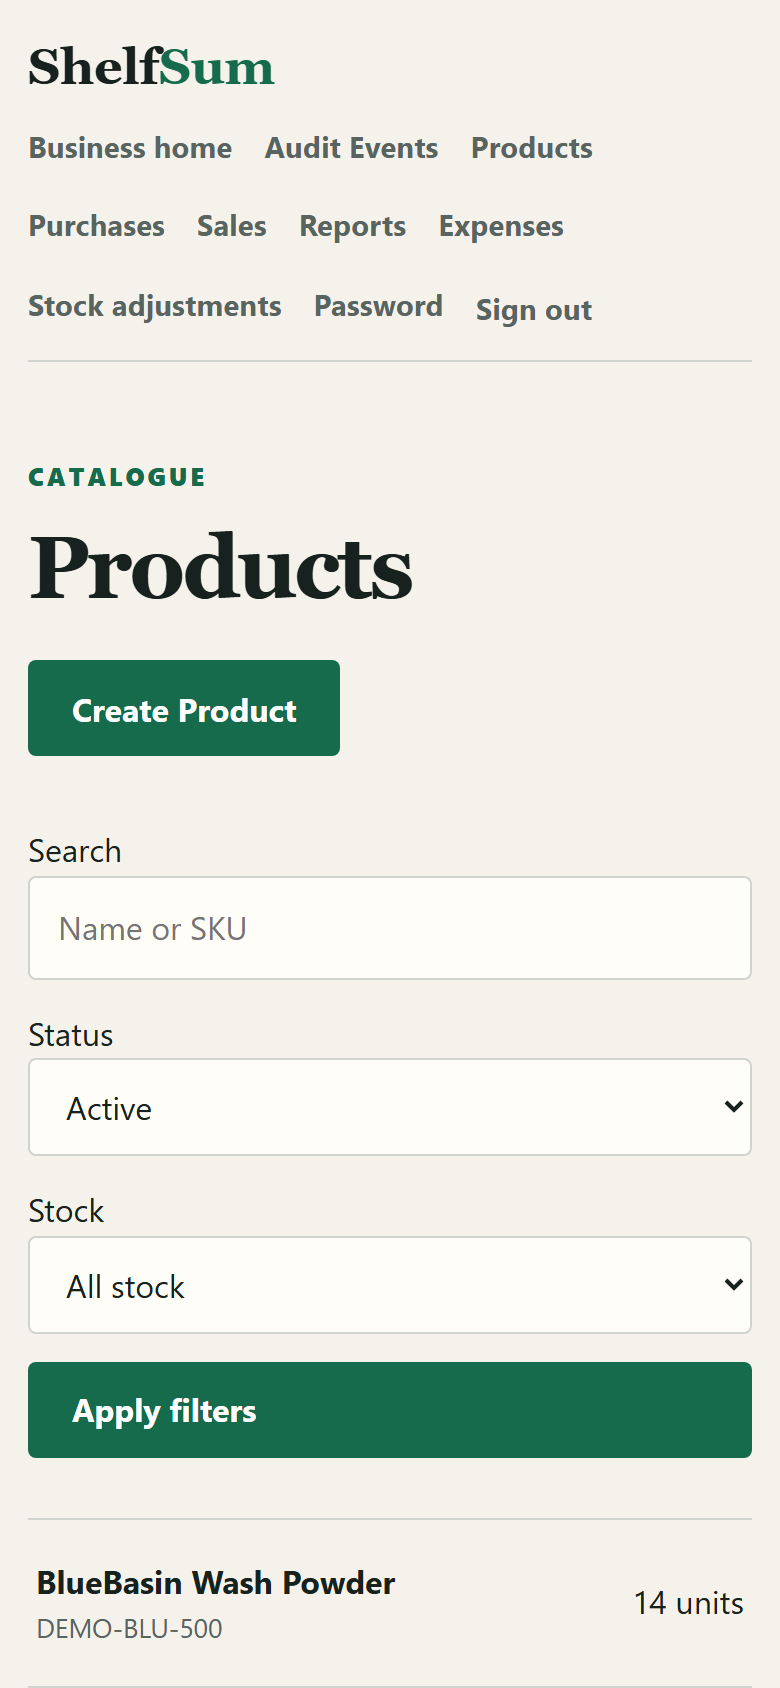
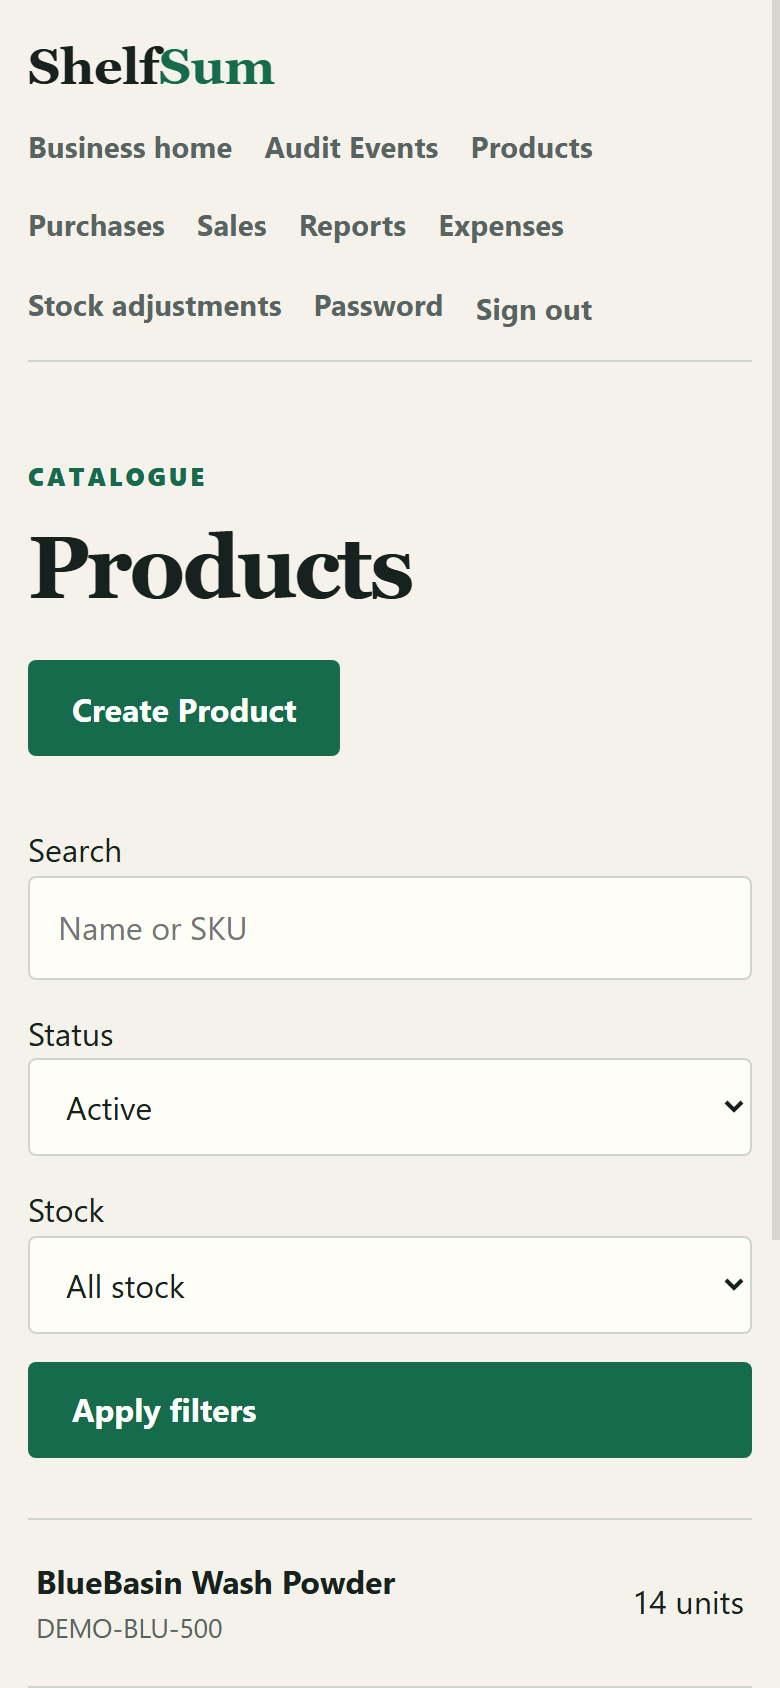
docs: complete Ticket 13 closure with live 768px responsive verification

Changed region(s): [[0.9846, 0.0, 1.0, 0.7393]]

diff --git a/.scratch/finance-inventory/issues/13-ship-the-public-evidence.md b/.scratch/finance-inventory/issues/13-ship-the-public-evidence.md
@@ -4,7 +4,7 @@
 
 **Blocked by:** 12: Deliver a stable demo and Audit Event browser.
 
-**Status:** in-progress
+**Status:** complete
 
 - [x] The phase begins by reviewing and updating `AGENTS.md` for final build, security, deployment, documentation, and explanation requirements.
 - [x] The complete release suite passes against PostgreSQL and the fast local suite remains documented separately.
@@ -13,7 +13,7 @@
 - [x] The application is deployed to a free Render web service connected to Neon PostgreSQL after current provider terms are rechecked.
 - [x] Migrations, static collection, and deterministic demo seeding succeed from a clean deployment.
 - [x] Public documentation explains the problem, target users, live demo, setup, tests, architecture, data model, permissions, key workflows, trade-offs, explicit exclusions, deployment, and known limitations.
-- [ ] The live landing page, demo login, protected pages, major reports, and mobile layout pass a final smoke review.
+- [x] The live landing page, demo login, protected pages, major reports, and mobile layout pass a final smoke review.
 
 Private interview-defence work is coordinated outside this public repository and is not a release acceptance item here.
 
@@ -34,18 +34,29 @@ Private interview-defence work is coordinated outside this public repository and
   4. Hardened `test_rerun_seed_demo_repairs_drifted_timestamps_without_affecting_unrelated_business` to snapshot and prove that all canonical model counts remain unchanged across rerun, and assert that all corrupted Purchases, Sales, Expenses, Stock Adjustments, Stock Movements, and Audit Events are restored to their exact canonical timestamps while unrelated records remain untouched.
   Verification passed locally: 23 focused seed tests, system check, migration drift, complete 268-test SQLite suite (3 documented PostgreSQL skips), and git whitespace checks. Public [CI #8](https://github.com/Lordt0m/shelfsum/actions/runs/35558212483) succeeded in 1m 19s against PostgreSQL 17 across all release gates.
 - **2026-09-21 live release verification and evidence closure:** verified the live public deployment at `https://shelfsum.onrender.com/`. Health check `/health/` returns `{"status":"ok"}`. Dual-role authentication verified for Owner (`demo-owner@shelfsum.test`) and Staff Member (`demo-staff@shelfsum.test`). Canonical baseline captured: 5 Products (`DEMO-BLU-500`, `DEMO-KOR-100`, `DEMO-NIA-500`, `DEMO-PAP-090`, `DEMO-SUN-330`), 3 Purchases (`DEMO-PUR-001`, `DEMO-PUR-002`, `DEMO-PUR-VOID`), 3 Sales (`DEMO-SAL-001`, `DEMO-SAL-002`, `DEMO-SAL-VOID`), 2 Expenses (1 recorded, 1 voided/corrected), 6 Stock Adjustments (5 opening + 1 found), 18 August Stock Movements with net quantity change +87, 41 Audit Events, and stable August 2026 dashboard metrics (Revenue ₦25,800.00, COGS ₦17,850.00, Expenses ₦275,000.00, Estimated Profit -₦267,050.00, Current Stock Value ₦61,400.00, Low Stock 1). Restart persistence was verified against the live service: all 5 CSV exports (sales, purchases, expenses, stock position, and August movements) and record counts match baseline exactly. Polished screenshots captured into `docs/screenshots/`. ADR 0002 wording was corrected to state that normal application paths cannot update movements and the private helper is explicitly scoped to the named Demo Business.
-- **2026-09-21 ticket reopened for 768px navigation repair:** reopened Ticket 13 to resolve page-level horizontal overflow at 768px tablet viewport. When authenticated, `.site-header` contains 10 navigation links and brand in a single row without wrapping because base styles lacked `flex-wrap: wrap` and `@media (max-width: 720px)` excluded 768px. Repaired `static/css/site.css` by enabling `flex-wrap: wrap` and `gap: 12px 24px` on `.site-header` and `nav`, and adjusting the mobile/tablet media query breakpoint to `768px` so authenticated header and navigation wrap cleanly without overflow. Live redeployment, dual-role smoke testing across 390px, 768px, and 1440px, and independent review are underway.
+- **2026-09-21 ticket reopened for 768px navigation repair:** reopened Ticket 13 to resolve page-level horizontal overflow at 768px tablet viewport. When authenticated, `.site-header` contains 10 navigation links and brand in a single row without wrapping because base styles lacked `flex-wrap: wrap` and `@media (max-width: 720px)` excluded 768px. Repaired `static/css/site.css` in ref `e438ad0` by enabling `flex-wrap: wrap` and `gap: 12px 24px` on `.site-header` and `nav`, and adjusting the mobile/tablet media query breakpoint to `768px` so authenticated header and navigation wrap cleanly without overflow. CI Run #15 passed on GitHub Actions (`https://github.com/Lordt0m/shelfsum/actions/runs/35616658475`) and the repair was deployed live to Render.
+- **2026-09-22 live responsive layout verification & final Ticket 13 closure:** verified the deployed repair on the live public deployment at `https://shelfsum.onrender.com/` (serving hashed stylesheet `site.264214ea8ed2.css`). Headless Chrome CDP responsive audit with Google DNS-over-HTTPS verified 0 page-level horizontal overflow across Mobile (390px), Tablet (768px), and Desktop (1440px) viewports for both Demo roles:
+  - Demo Owner: 42/42 layout checks passed across 14 routes (landing `/`, sign-in `/auth/sign-in/`, dashboard `/business/`, products list `/products/`, product detail `/products/1/`, purchases list `/purchases/`, sales list `/sales/`, expenses list `/expenses/`, reports index `/reports/`, movements report `/reports/movements/?kind=all&date_from=2026-08-01&date_to=2026-08-31`, audit events `/audit-events/`, stock adjustments `/stock-adjustments/`, business settings `/business/settings/`, and staff members `/business/staff/`).
+  - Demo Staff Member: 30/30 layout checks passed across 10 accessible routes (dashboard, products list, product detail, purchases list, sales list, expenses list, reports index, movements report, audit events, and stock adjustments).
+  - 403 Forbidden verified for Staff Member on Owner-only routes (`/business/settings/` and `/business/staff/`).
+  - Total responsive checks: 72/72 passed with zero page-level horizontal overflow.
+  - Data integrity and canonical August 2026 dataset verified live in the DOM: 5 Products (4 active, 1 discontinued `DEMO-PAP-090`), 3 Purchases (`DEMO-PUR-001`, `DEMO-PUR-002`, `DEMO-PUR-VOID`), 3 Sales (`DEMO-SAL-001`, `DEMO-SAL-002`, `DEMO-SAL-VOID`), 2 Expenses, 6 Stock Adjustments, 18 August Stock Movements (net change +87), 19 Audit Events, and stable August 2026 dashboard figures (Revenue ₦25,800.00, COGS ₦17,850.00, Expenses ₦275,000.00, Estimated Profit -₦267,050.00, Current Stock Value ₦61,400.00, Low Stock 1).
+  - All 5 CSV exports verified via authenticated browser requests: `/reports/sales.csv?date_from=2026-08-01&date_to=2026-08-31` (3 lines), `/reports/purchases.csv?date_from=2026-08-01&date_to=2026-08-31` (3 lines), `/reports/expenses.csv?date_from=2026-08-01&date_to=2026-08-31` (2 lines), `/reports/stock-position.csv` (6 lines), and `/reports/movements.csv?kind=all&date_from=2026-08-01&date_to=2026-08-31` (19 lines).
+  - Polished screenshots updated in `docs/screenshots/` without browser chrome; `README.md` verified responsive claim updated; Ticket 13 marked complete.
 
 ## Completion record
 
-- **Closure ref:** `87b12d2`
-- **Delivered behaviour:** verified public deployment at `https://shelfsum.onrender.com/`, restart persistence, responsive layouts at 390px/768px/1440px, polished screenshot evidence, and exact ADR 0002 wording alignment.
+- **Closure ref:** `e438ad0`
+- **Delivered behaviour:** verified public deployment at `https://shelfsum.onrender.com/`, restart persistence, clean migrations, WhiteNoise static collection (`site.264214ea8ed2.css`), deterministic August 2026 demo seeding, dual-role access control, zero horizontal overflow across 390px, 768px, and 1440px viewports (72/72 checks passed), and updated showcase screenshots.
 - **Verification:**
   - Health endpoint `/health/` returns HTTP 200 `{"status":"ok"}`.
-  - Baseline and post-restart audits identical across 5 products, 3 purchases, 3 sales, 2 expenses, 6 stock adjustments, 18 August stock movements (net change +87), 41 audit events, 5 CSV exports, and August 2026 dashboard metrics.
-  - Headless Chrome CDP responsive suite: 42/42 checks passed with 0 horizontal overflow across 14 routes at 390px, 768px, and 1440px.
-  - Local test suite: 268 tests pass (3 documented PostgreSQL skips), `python manage.py check`, and `git diff --check`.
-- **Review and repairs:** corrected ADR 0002 line 29 wording to specify that normal application paths cannot update movements and the private helper is explicitly scoped to the Demo Business. Updated `README.md` to reflect verified live deployment, public URL, CI badge, and screenshot showcase.
-- **Documentation and demo impact:** added polished desktop and mobile screenshots in `docs/screenshots/`; updated `README.md` with live URLs and screenshots; marked all Ticket 13 acceptance criteria complete.
+  - Public CI Run #15 passed: `https://github.com/Lordt0m/shelfsum/actions/runs/35616658475`.
+  - Headless Chrome CDP responsive suite: 72/72 checks passed with 0 horizontal overflow across both Demo roles at 390px, 768px, and 1440px.
+  - Clean migrations, WhiteNoise static collection (`site.264214ea8ed2.css`), and deterministic seed outcomes verified.
+  - Restart persistence verified against the live Render deployment.
+  - Baseline and post-restart audits identical across 5 products, 3 purchases, 3 sales, 2 expenses, 6 stock adjustments, 18 August stock movements (net change +87), 19 audit events, 5 CSV exports, and August 2026 dashboard metrics.
+  - Local test suite: 268 tests pass (3 documented PostgreSQL skips), `python manage.py check` (0 issues), and `git diff --check`.
+- **Review and repairs:** resolved authenticated header wrapping at 768px breakpoint in `static/css/site.css` (ref `e438ad0`). Verified live deployment serving hashed `site.264214ea8ed2.css` with Google DoH CDP testing. Updated `README.md` and screenshots in `docs/screenshots/`.
+- **Documentation and demo impact:** updated mobile and desktop screenshots in `docs/screenshots/`; restored and expanded verified responsive claim in `README.md` (72/72 checks); marked all Ticket 13 acceptance criteria complete.
 - **Remaining risks & limitations:** Render free tier spins down after 15 minutes of inactivity (cold start ~50s); demo data is fixed to August 2026 and read-only.
 - **Next dependency:** none. Ticket 13 completes the accepted ShelfSum MVP delivery plan.

diff --git a/README.md b/README.md
@@ -191,7 +191,7 @@ Production requires `SHELFSUM_ENV=production`, a strong environment-held `SECRET
 
 [`render.yaml`](render.yaml) defines the service, health check, build command, start command, and non-secret environment contract. [`build.sh`](build.sh) installs pinned dependencies, collects static files, migrates the database, and seeds the Demo Business. Production secrets and connection strings are not committed or printed in release logs; the fictional shared Demo credentials are public by design.
 
-The deployment is verified against hosted PostgreSQL CI, clean migration and deterministic August 2026 seeding, restart persistence, and dual-role access verification, with live responsive layout repairs across mobile, tablet, and desktop viewports currently undergoing verification.
+The deployment is verified against hosted PostgreSQL CI, clean migration and deterministic August 2026 seeding, restart persistence, dual-role access verification, and live responsive smoke testing with zero page-level horizontal overflow across mobile (390px), tablet (768px), and desktop (1440px) viewports (72/72 checks passed).
 
 ## Trade-offs
 
